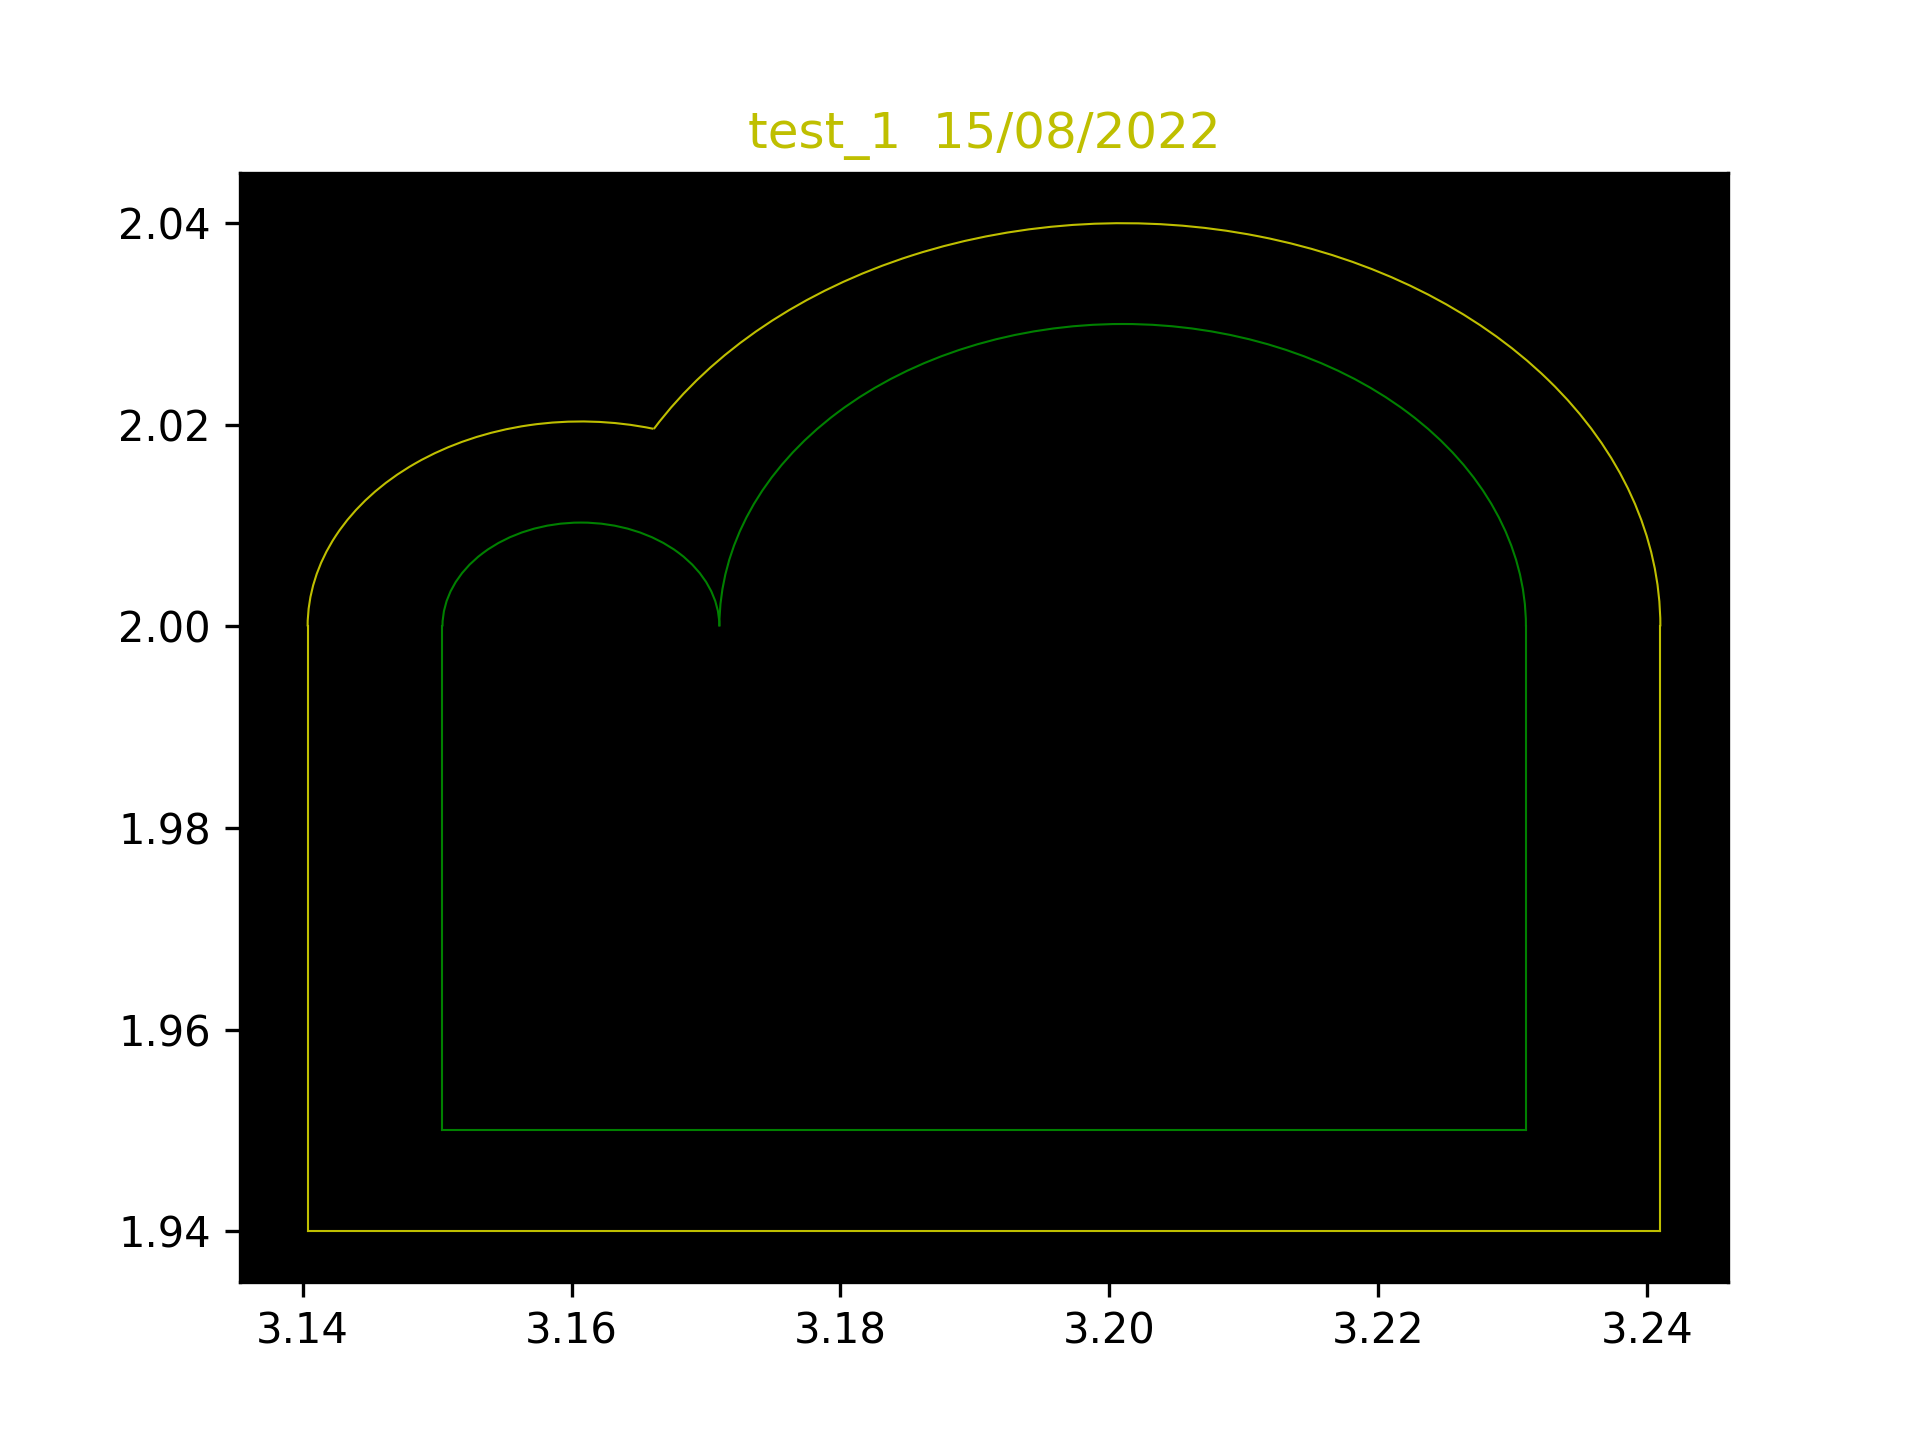
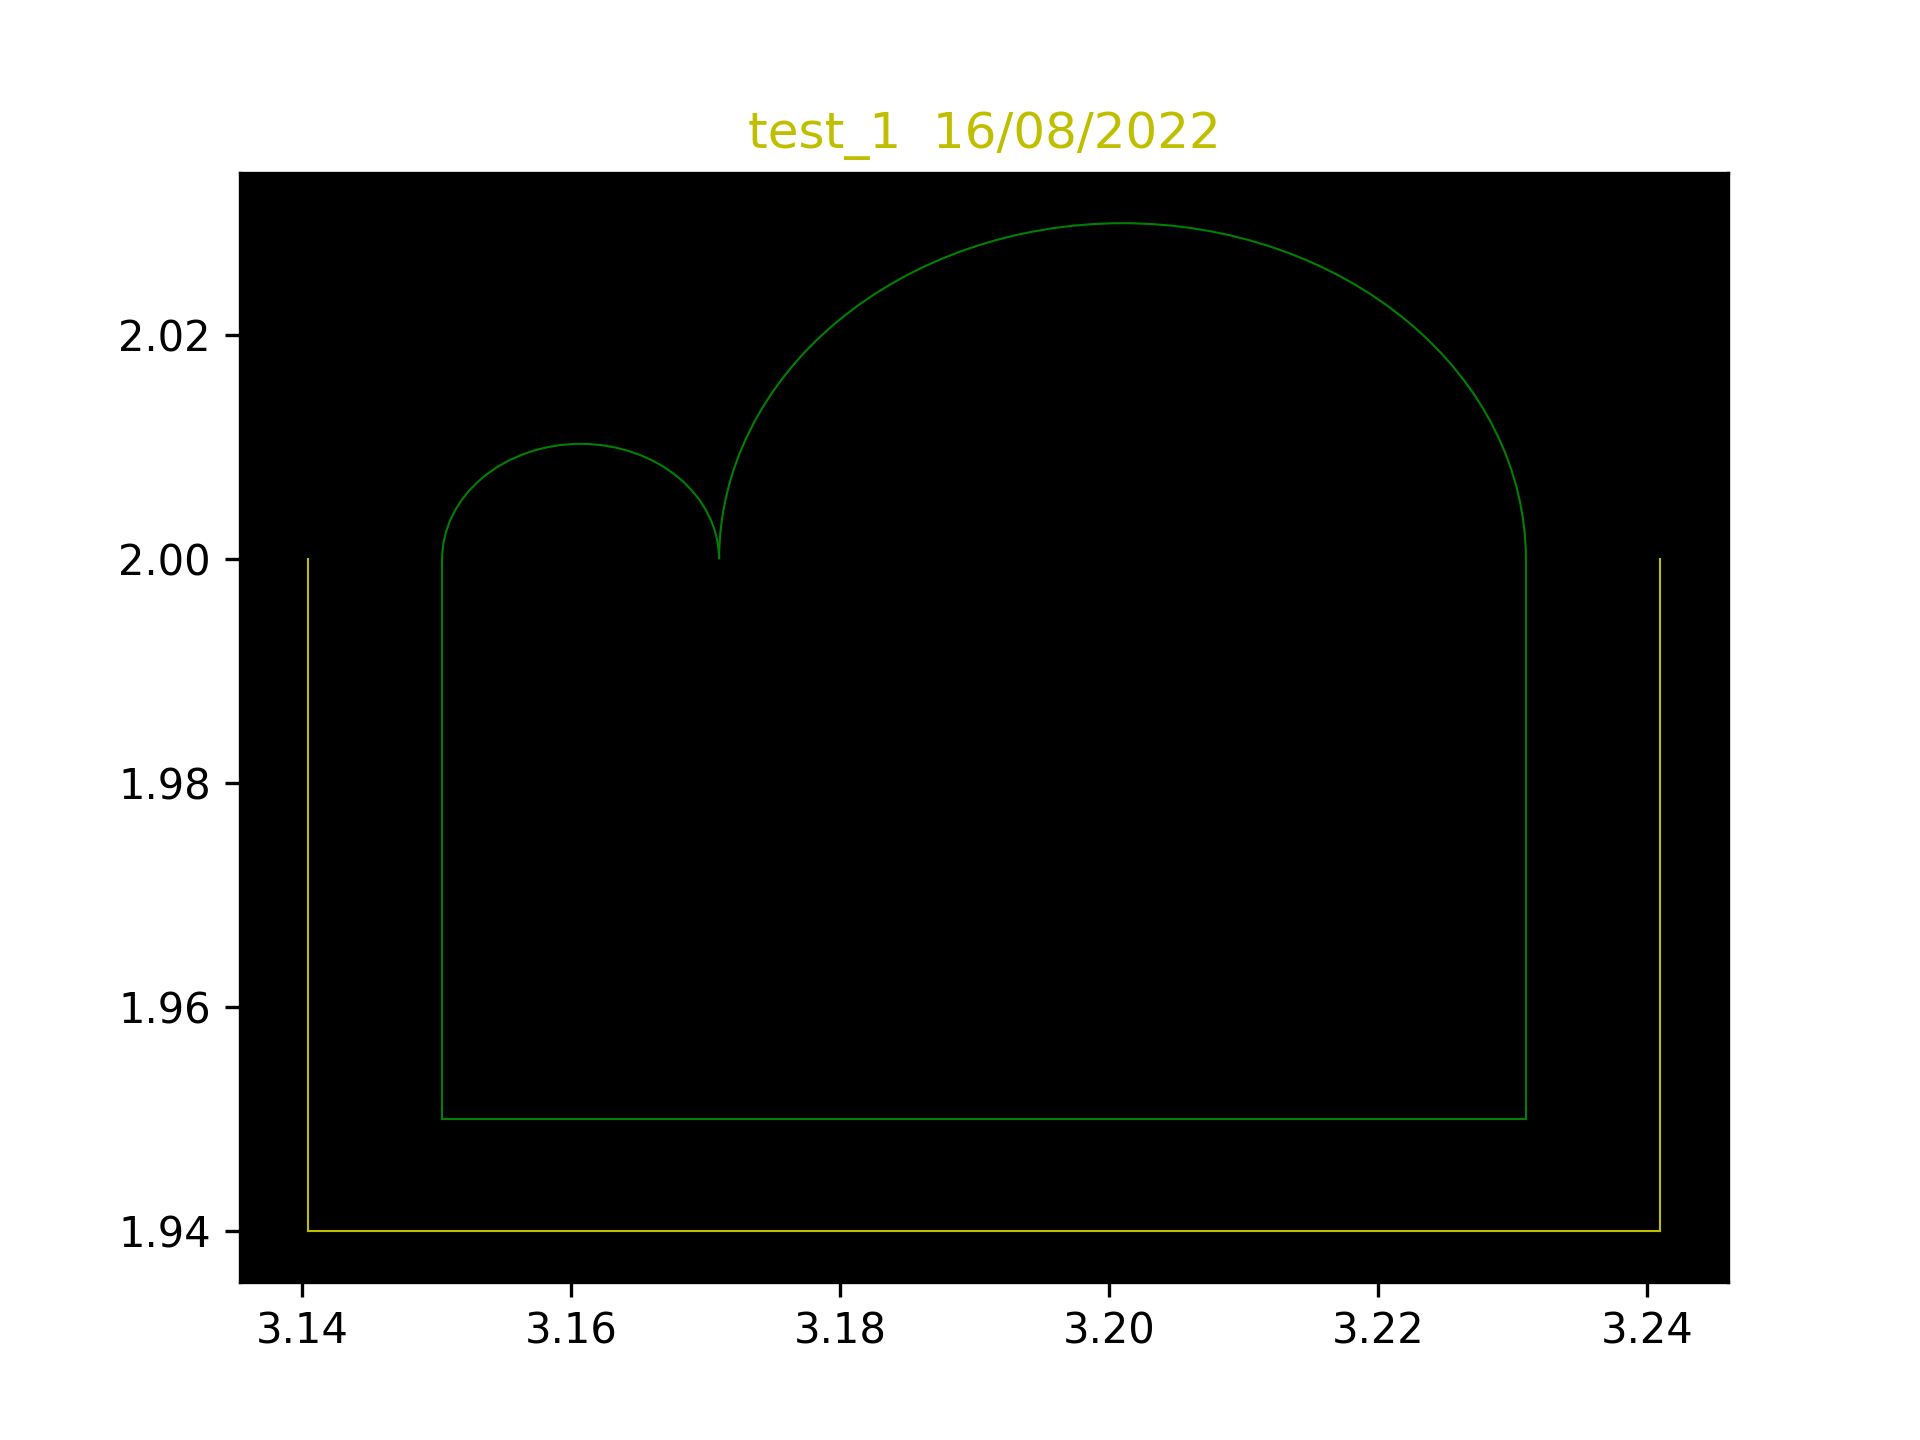
fix stealing lines func.

diff --git a/classes/Silkscreen.cpp b/classes/Silkscreen.cpp
@@ -1561,7 +1561,7 @@ void Silkscreen::fit_lines_simularity()
     int line_running_index = 0;
     Graph cut_result;
     array<int, 2> line_index;
-
+    /*
     for (size_t i = 0; i < continuous_size; i++)
     {
         size_t size = this->silkscreen.at(i).segment.size();
@@ -1611,19 +1611,18 @@ void Silkscreen::fit_lines_simularity()
         if (arc_diff == 0)
             break;
     }
-
+    */
+    bool line_modified = false;
     for (size_t i = 0; i < continuous_size; i++)
     {
         size_t size = this->silkscreen.at(i).segment.size();
-        for (size_t j = 0; j < size; j++)
+
+        line_modified = false;
+        for (size_t j = 0, l = 0; j < size; j++, l++)
         {
-            line_index[0] = i, line_index[1] = j;
+            line_index[0] = i, line_index[1] = l;
             Segment line = this->silkscreen.at(i).segment.at(j);
-            if (!line.is_line)
-            {
-                continue;
-            }
-            if (line_diff > 0 && hypot(line.x2 - line.x1, line.y2 - line.y1) >= silkscreenlen * (line_diff + 1)) // 線段數需要增加
+            /*if (line_diff > 0 && hypot(line.x2 - line.x1, line.y2 - line.y1) >= silkscreenlen * (line_diff + 1)) // 線段數需要增加
             {
                 cut_result = cut_line_arc(this->silkscreen.at(i).segment.at(j), line_diff + 1, true);
                 silkscreen.at(i).segment.insert(silkscreen.at(i).segment.begin() + j, cut_result.segment.begin(), cut_result.segment.end());
@@ -1631,23 +1630,43 @@ void Silkscreen::fit_lines_simularity()
                 line_diff = 0;
                 break;
             }
-            else if (line_diff < 0)
+            */
+            if (line_index == Uppest_Silkscreen_index || line_index == Lowest_Silkscreen_index || line_index == Leftest_Silkscreen_index || line_index == Rightest_Silkscreen_index)
             {
-                if (line_index == Uppest_Silkscreen_index || line_index == Lowest_Silkscreen_index || line_index == Leftest_Silkscreen_index || line_index == Rightest_Silkscreen_index)
+                if (!line_modified)
+                    continue;
+                else
+                    break;
+            }
+            else
+            {
+                if (line.is_line && line_diff < 0)
+                {
+                    line_modified = true;
+                    silkscreen.at(i).segment.erase(silkscreen.at(i).segment.begin() + j);
+                    j--;
+                    size--;
+                    line_diff++;
+                }
+                else if (!line.is_line && arc_diff < 0)
+                {
+                    line_modified = true;
+                    silkscreen.at(i).segment.erase(silkscreen.at(i).segment.begin() + j);
+                    j--;
+                    size--;
+                    arc_diff++;
+                }
+                else if (!line_modified)
                 {
                     continue;
                 }
                 else
                 {
-                    silkscreen.at(i).segment.erase(silkscreen.at(i).segment.begin() + j);
-                    size--;
-                    line_diff++;
+                    break;
                 }
             }
-            if (line_diff == 0)
-                break;
         }
-        if (line_diff == 0)
+        if (line_diff == 0 && arc_diff == 0)
             break;
     }
 }

diff --git a/test.cpp b/test.cpp
@@ -6,8 +6,8 @@ using namespace std;
 
 int main()
 {
-     Scorer s("./PublicCase/PublicCase_A.txt", "./PublicCase/PublicCase_A_Ans.txt");
-     // Scorer s("./TestingCase/test_C.txt", "./TestingCase/test_C_Ans.txt");
+     // Scorer s("./PublicCase/PublicCase_A.txt", "./PublicCase/PublicCase_A_Ans.txt");
+     Scorer s("./TestingCase/test_A.txt", "./TestingCase/test_A_Ans.txt");
      cout << setprecision(4) << fixed << s.Total_score(1) << endl;
      return 0;
 }
